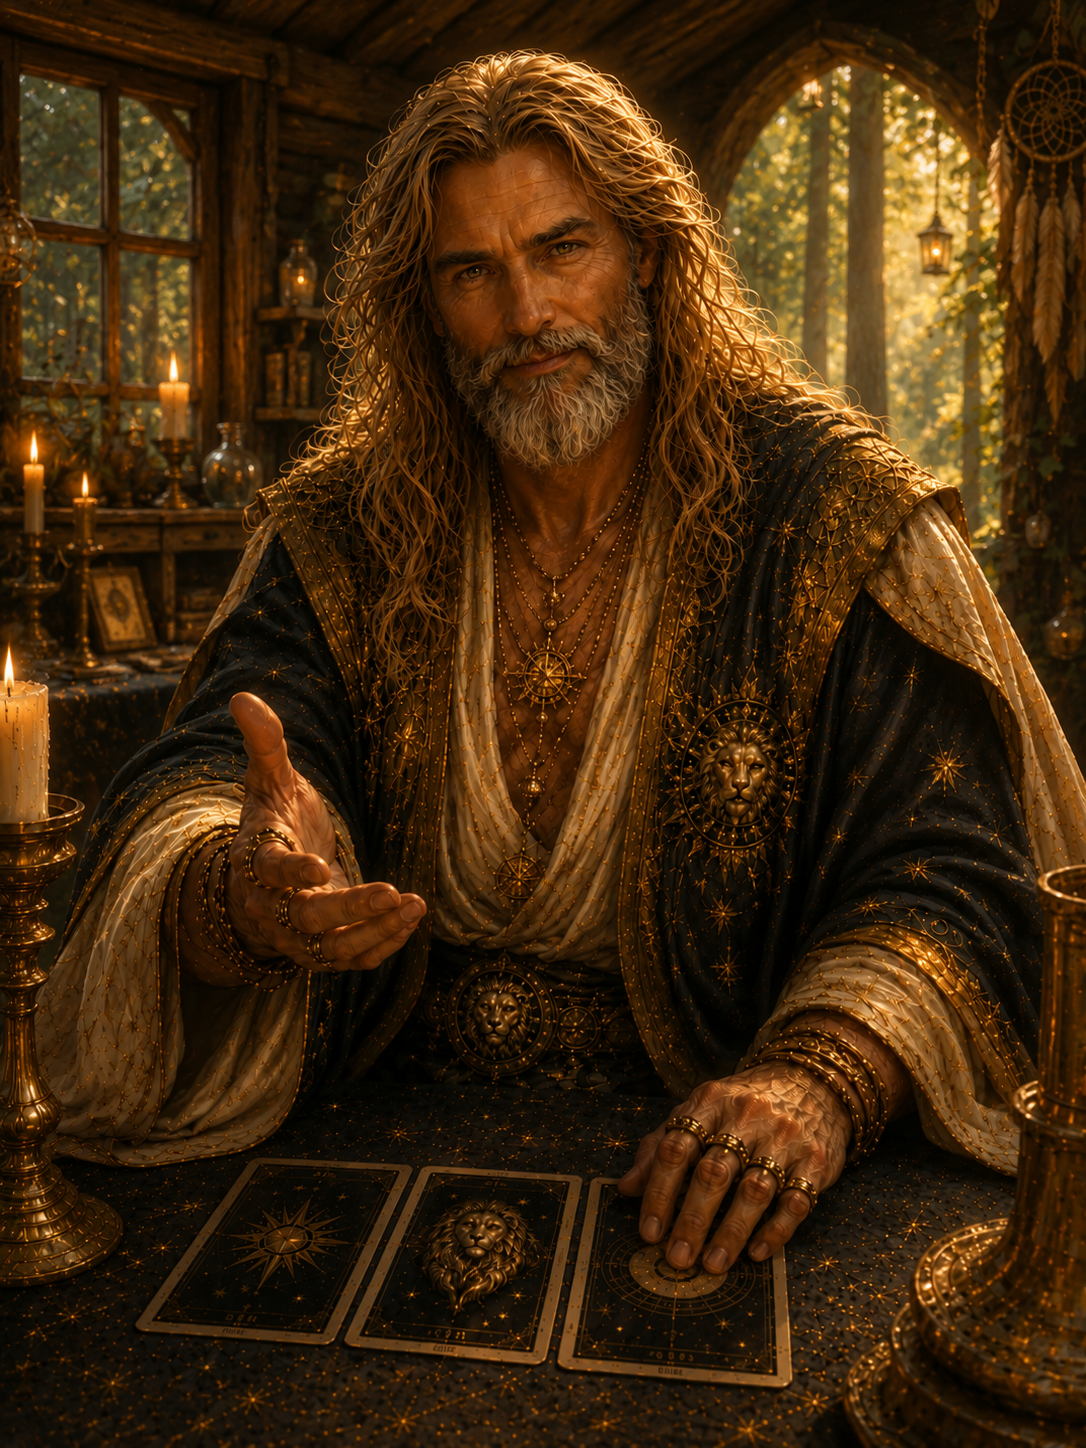
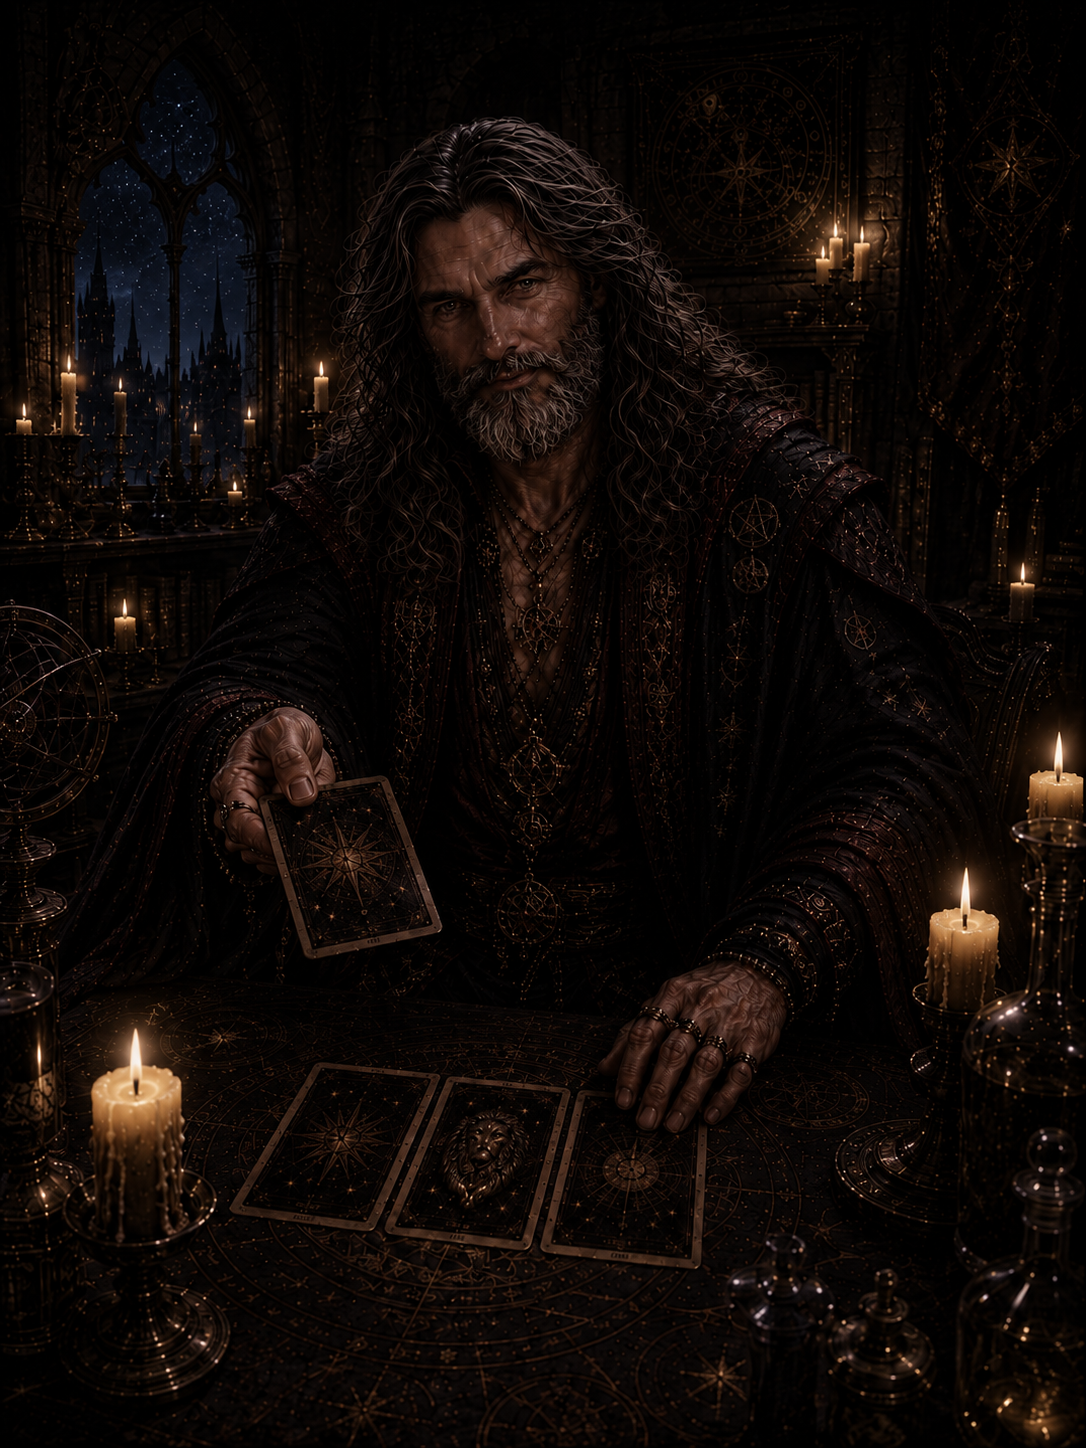
new astral deck added and leo phase 1 image update

diff --git a/data/decks.js b/data/decks.js
@@ -13,20 +13,41 @@ const deckCollections = [
     status: "Core Collection",
     actionLabel: "View Deck",
     eyebrow: "Major Arcana",
-    viewTitle: "The Astral Deck",
+    viewTitle: "Lumen Arcana",
     viewDescription:
-      "Browse the Major Arcana used in Astral Veil readings, now expanded with reflective meanings, shadows, and questions.",
+      "Rooted in light, growth, and guidance, this deck explores the Major Arcana through renewal, intuition, and the quiet wisdom of becoming.",
     coverImage: "assets/images/cards/original/card-back.webp",
     imagePath: "assets/images/cards/original/",
     cards: () => tarotDeck
   },
   {
+    id: "dreambound",
+    title: "Dreambound Arcana",
+    name: "Dreambound Arcana",
+    subtitle: "A storybook deck of wonder, courage, and the dreams that guide us home.",
+    category: "DREAMBOUND",
+    librarySection: "free",
+    theme: "dreambound",
+    accessType: "free",
+    status: "Core Collection",
+    actionLabel: "View Deck",
+    eyebrow: "Dreambound Arcana",
+    viewTitle: "Dreambound Arcana",
+    viewDescription: "A storybook deck of wonder, courage, and the dreams that guide us home, following a young traveler through love, loss, hope, and becoming.",
+    coverImage: "assets/images/cards/dreamy/dreams_card_back.png",
+    previewImage: "assets/images/cards/dreamy/dreams_card_back.png",
+    backgroundImage: "/assets/images/background _images/dreams_deck_bg.png",
+    deckBack: "assets/images/cards/dreamy/dreams_card_back.png",
+    imagePath: "assets/images/cards/dreamy/",
+    cards: () => dreamboundDeck.cards
+  },
+  {
     id: "bloodMoon",
-    title: "Blood Moon Deck",
-    name: "Blood Moon Deck",
+    title: "Blood Moon Arcana",
+    name: "Blood Moon Arcana",
     subtitle: "A crimson deck of shadow and truth.",
     category: "Blood Moon",
-    librarySection: "free",
+    librarySection: "unlockable",
     theme: "bloodMoon",
     accessType: "event",
     requiredEvent: "bloodMoon",
@@ -37,8 +58,8 @@ const deckCollections = [
     actionLabel: "View Deck",
     lockedMessage: "This deck sleeps beneath the Blood Moon.",
     eyebrow: "Blood Moon Arcana",
-    viewTitle: "Blood Moon Deck",
-    viewDescription: "A crimson Major Arcana collection available to signed-in Veilwalkers or when Blood Moon is awake.",
+    viewTitle: "Blood Moon Arcana",
+    viewDescription: "A crimson deck of shadow and truth, revealing the hidden patterns, hard lessons, and raw transformations beneath each card.",
     coverImage: "assets/images/cards/blood-moon/bloodmoon-card-back.webp",
     imagePath: "assets/images/cards/blood-moon/",
     unlockCondition: "Blood Moon event active",
@@ -48,8 +69,8 @@ const deckCollections = [
   },
   {
     id: "moonveil",
-    title: "Moonveil Deck",
-    name: "Moonveil Deck",
+    title: "Moonveil Arcana",
+    name: "Moonveil Arcana",
     subtitle: "A moonlit deck of dreams, intuition, and hidden paths.",
     category: "MOONVEIL",
     librarySection: "free",
@@ -63,45 +84,13 @@ const deckCollections = [
     lockedMessage: "Create a free account to unlock this deck.",
     authMode: "signup",
     eyebrow: "Moonveil Arcana",
-    viewTitle: "Moonveil Deck",
-    viewDescription: "A moonlit Major Arcana collection for intuition work and reflective readings.",
+    viewTitle: "Moonveil Arcana",
+    viewDescription: "A moonlit deck of dreams, intuition, and hidden paths, inviting each card to unfold through stillness, mystery, and reflection.",
     backgroundImage: "assets/images/background _images/moonveil_card_bg.png",
     previewImage: "assets/images/cards/moonveil/moonveil_card_back.png",
     coverImage: "assets/images/cards/moonveil/moonveil_card_back.png",
     imagePath: "assets/images/cards/moonveil/",
     cards: () => moonveilDeck.cards
-  },
-  {
-    id: "memoryChamber",
-    title: "Memory Chamber Deck",
-    name: "Memory Chamber Deck",
-    subtitle: "Recovered through memory and progression.",
-    category: "Lore",
-    librarySection: "unlockable",
-    theme: "lore",
-    accessType: "comingSoon",
-    status: "Unlockable",
-    lockedStatus: "Unlockable",
-    lockedActionLabel: "Locked",
-    lockedMessage: "This deck will unlock through future Astral Veil progression.",
-    coverImage: "assets/images/cards/original/card-back.webp",
-    cards: () => []
-  },
-  {
-    id: "veilbound",
-    title: "Veilbound Deck",
-    name: "Veilbound Deck",
-    subtitle: "A hidden collection within the Veil.",
-    category: "Lore",
-    librarySection: "unlockable",
-    theme: "veilbound",
-    accessType: "comingSoon",
-    status: "Unlockable",
-    lockedStatus: "Unlockable",
-    lockedActionLabel: "Locked",
-    lockedMessage: "This deck is a future lore unlock.",
-    coverImage: "assets/images/cards/original/card-back.webp",
-    cards: () => []
   },
   {
     id: "eventDeck",

diff --git a/css/deck.css b/css/deck.css
@@ -557,6 +557,43 @@ body.blood-moon-mode .deck-ritual-feature {
     inset 0 0 14px rgba(255, 213, 217, 0.06);
 }
 
+.deck-collection-card--dreambound {
+  --deck-card-accent: #d8b46f;
+  --deck-card-accent-strong: #7f5d3a;
+  --deck-card-accent-soft: rgba(216, 180, 111, 0.32);
+  --deck-card-glow: rgba(216, 180, 111, 0.24);
+  --deck-card-panel: rgba(44, 30, 16, 0.74);
+  --deck-card-text: #f5e9d5;
+  --deck-card-muted: rgba(225, 202, 170, 0.86);
+  --deck-collection-cover: url("/assets/images/background _images/dreams_deck_bg.png");
+  border-color: color-mix(in srgb, var(--deck-card-accent-strong) 72%, rgba(255, 255, 255, 0.18));
+  color: var(--deck-card-text);
+  background:
+    radial-gradient(circle at 18% 12%, rgba(255, 232, 191, 0.16), transparent 40%),
+    linear-gradient(135deg, rgba(255, 255, 255, 0.06), rgba(0, 0, 0, 0.26) 68%),
+    var(--deck-collection-cover) center / cover no-repeat,
+    var(--deck-card-panel);
+}
+
+.deck-collection-card--dreambound .deck-collection-card__preview img {
+  border: 1px solid color-mix(in srgb, var(--deck-card-accent) 44%, rgba(255, 255, 255, 0.18));
+  box-shadow: 0 18px 38px rgba(0, 0, 0, 0.38);
+}
+
+.deck-collection-card--dreambound .deck-collection-card__badge {
+  color: color-mix(in srgb, #f8e2bf 72%, var(--deck-card-text));
+  background: color-mix(in srgb, #d8b46f 68%, rgba(0, 0, 0, 0.2));
+  box-shadow: 0 0 14px color-mix(in srgb, var(--deck-card-glow) 58%, transparent);
+}
+
+.deck-collection-card--dreambound .deck-collection-card__action {
+  border-color: color-mix(in srgb, #d8b46f 68%, rgba(255, 255, 255, 0.16));
+  color: var(--deck-card-text);
+  background:
+    linear-gradient(135deg, rgba(255, 255, 255, 0.09), transparent 48%),
+    color-mix(in srgb, #d8b46f 78%, rgba(0, 0, 0, 0.28));
+}
+
 .deck-collection-card.is-locked {
   border-color: color-mix(in srgb, var(--deck-card-accent-strong) 42%, rgba(0, 0, 0, 0.36));
   opacity: 0.76;
@@ -956,6 +993,13 @@ body.blood-moon-mode .deck-ritual-feature {
   --deck-viewer-accent: #8eb3ff;
   --deck-viewer-glow: rgba(141, 176, 255, 0.34);
   --deck-viewer-panel: rgba(12, 22, 49, 0.8);
+}
+
+.deck-viewer--dreambound {
+  --deck-viewer-accent: var(--navbar-border);
+  --deck-viewer-glow: var(--navbar-glow);
+  --deck-viewer-panel: var(--navbar-bg);
+  background: transparent;
 }
 
 .deck-viewer__stage {
@@ -1876,6 +1920,41 @@ body.is-lightbox-open {
   --deck-card-accent-soft: rgba(138, 87, 207, 0.32);
   --deck-card-glow: rgba(157, 100, 255, 0.28);
   --deck-card-panel: rgba(31, 20, 48, 0.75);
+}
+
+.deck-collection-card--dreambound {
+  --deck-card-accent: #d8b46f;
+  --deck-card-accent-strong: #7f5d3a;
+  --deck-card-accent-soft: rgba(216, 180, 111, 0.32);
+  --deck-card-glow: rgba(216, 180, 111, 0.24);
+  --deck-card-panel: rgba(44, 30, 16, 0.74);
+  --deck-card-text: #f5e9d5;
+  --deck-card-muted: rgba(225, 202, 170, 0.86);
+  --deck-collection-cover: url("/assets/images/background _images/dreams_deck_bg.png");
+  background:
+    radial-gradient(circle at 16% 12%, rgba(255, 232, 191, 0.22), transparent 42%),
+    linear-gradient(160deg, rgba(216, 180, 111, 0.08), rgba(0, 0, 0, 0.18) 56%, rgba(0, 0, 0, 0.28)),
+    linear-gradient(180deg, rgba(255, 255, 255, 0.04), rgba(0, 0, 0, 0.2) 56%, rgba(0, 0, 0, 0.34)),
+    var(--deck-collection-cover) center / cover no-repeat,
+    var(--deck-card-panel);
+}
+
+.deck-collection-card--dreambound .deck-collection-card__badge {
+  border-color: color-mix(in srgb, #d8b46f 46%, rgba(255, 255, 255, 0.12));
+  color: color-mix(in srgb, #f8e2bf 72%, var(--deck-card-text));
+  background: color-mix(in srgb, #d8b46f 68%, rgba(0, 0, 0, 0.2));
+  box-shadow: 0 0 14px color-mix(in srgb, var(--deck-card-glow) 58%, transparent);
+}
+
+.deck-collection-card--dreambound .deck-collection-card__action {
+  border-color: color-mix(in srgb, #d8b46f 68%, rgba(255, 255, 255, 0.14));
+  background:
+    linear-gradient(135deg, rgba(255, 255, 255, 0.1), transparent 48%),
+    color-mix(in srgb, #d8b46f 70%, rgba(0, 0, 0, 0.28));
+}
+
+.deck-collection-card--dreambound .deck-collection-card__action:hover {
+  box-shadow: 0 0 18px color-mix(in srgb, var(--deck-card-glow) 78%, transparent);
 }
 
 .deck-collection-card--moonveil {

diff --git a/data/cards.js b/data/cards.js
@@ -955,7 +955,7 @@ function getBaseCardId(card) {
 
 function getCardUprightMeaning(card) {
   const bloodMoon = card?.bloodMoon || {};
-  const isBloodMoonCard = Boolean(card?.isBloodMoonCard || card?.originalCardId);
+  const isBloodMoonCard = Boolean(card?.isBloodMoonCard);
 
   if (isBloodMoonCard) {
     const upright = bloodMoon.upright || {};
@@ -1047,7 +1047,7 @@ function withOrientationMeanings(card) {
 function getCardReversedMeaning(card) {
   const baseCard = majorArcanaCards.find((item) => item.id === getBaseCardId(card));
   const sourceCard = card?.reversed ? card : baseCard || card;
-  const isBloodMoonCard = Boolean(card?.isBloodMoonCard || card?.originalCardId);
+  const isBloodMoonCard = Boolean(card?.isBloodMoonCard);
 
   if (isBloodMoonCard) {
     return sourceCard?.bloodMoon?.reversed || createBloodMoonReversedMeaning(sourceCard || card);
@@ -1128,6 +1128,31 @@ const moonveilCardImages = {
   "the-world": "moonveil_world.png"
 };
 
+const dreamboundCardImages = {
+  "the-fool": "dreams_fool.png",
+  "the-magician": "dreams_magician.png",
+  "the-high-priestess": "dreams_high_priestess.png",
+  "the-empress": "dreams_empress.png",
+  "the-emperor": "dreams_emperor.png",
+  "the-hierophant": "dreams_hierophant.png",
+  "the-lovers": "dreams_lovers.png",
+  "the-chariot": "dreams_chariot.png",
+  strength: "dreams_strength.png",
+  "the-hermit": "dreams_hermit.png",
+  "wheel-of-fortune": "dreams_wheel_of_fortune.png",
+  justice: "dreams_justice.png",
+  "the-hanged-man": "dreams_hanged_man.png",
+  death: "dreams_death.png",
+  temperance: "dreams_temperance.png",
+  "the-devil": "dreams_devil.png",
+  "the-tower": "dreams_tower.png",
+  "the-star": "dreams_star.png",
+  "the-moon": "dreams_moon.png",
+  "the-sun": "dreams_sun.png",
+  judgement: "dreams_judgement.png",
+  "the-world": "dreams_world.png"
+};
+
 const bloodMoonDeck = {
   id: "bloodMoon",
   name: "Blood Moon Deck",
@@ -1153,9 +1178,21 @@ const moonveilDeck = {
   }))
 };
 
+const dreamboundDeck = {
+  id: "dreambound",
+  name: "Dreambound Arcana",
+  cards: tarotDeck.map((card) => ({
+    ...card,
+    id: `dreambound-${card.id}`,
+    originalCardId: card.id,
+    image: `assets/images/cards/dreamy/${dreamboundCardImages[card.id] || "dreams_card_back.png"}`
+  }))
+};
+
 if (typeof window !== "undefined") {
   window.majorArcanaCards = majorArcanaCards;
   window.tarotDeck = tarotDeck;
   window.bloodMoonDeck = bloodMoonDeck;
   window.moonveilDeck = moonveilDeck;
+  window.dreamboundDeck = dreamboundDeck;
 }

diff --git a/js/deck.js b/js/deck.js
@@ -498,9 +498,13 @@ function renderDeckCollectionCard(collection) {
     ? `${collection.lockedMessage}`
     : collection?.subtitle || "";
   const previewImage = collection?.previewImage || collection?.coverImage;
+  const tileBackgroundImage = collection?.backgroundImage || collection?.coverImage || "";
+  const tileBackgroundStyle = tileBackgroundImage
+    ? `style='--deck-collection-cover: url("${tileBackgroundImage}")'`
+    : "";
 
   return `
-      <article class="deck-collection-card deck-collection-card--${escapeHtml(theme)}${isLocked ? " is-locked" : ""}" data-deck-card data-deck-category="${escapeHtml(category)}" data-view-deck="${escapeHtml(collection.id)}" aria-disabled="${isLocked}">
+      <article class="deck-collection-card deck-collection-card--${escapeHtml(theme)}${isLocked ? " is-locked" : ""}" ${tileBackgroundStyle} data-deck-card data-deck-category="${escapeHtml(category)}" data-view-deck="${escapeHtml(collection.id)}" aria-disabled="${isLocked}">
       <span class="deck-collection-card__badge">${escapeHtml(status)}</span>
       <div class="deck-collection-card__preview" aria-hidden="true">
         <img src="${escapeHtml(previewImage)}" alt="" width="${DECK_CARD_IMAGE_WIDTH}" height="${DECK_CARD_IMAGE_HEIGHT}" loading="lazy" decoding="async" />
@@ -526,6 +530,13 @@ function getFilteredDeckCollections() {
 
   if (activeDeckFilter === "All") {
     return deckCollections;
+  }
+
+  if (activeDeckFilter === "Lore") {
+    return deckCollections.filter((collection) => {
+      const category = getCollectionCategory(collection);
+      return category === "Lore" || category === "Blood Moon";
+    });
   }
 
   return deckCollections.filter((collection) => getCollectionCategory(collection) === activeDeckFilter);
@@ -679,10 +690,14 @@ function renderDeckGallery(collectionId) {
 
   preloadAdjacentCards(collectionCards, activeCardIndex);
 
+  const deckHeroTitle = collection?.viewTitle || collection?.title || collection?.name || collection?.eyebrow || "The Astral Deck";
+  const deckHeroDescription =
+    collection?.viewDescription || collection?.detailDescription || collection?.description || collection?.subtitle || "";
+
   updateDeckHero({
     eyebrow: collection.eyebrow,
-    title: collection.viewTitle,
-    description: collection.viewDescription
+    title: deckHeroTitle,
+    description: deckHeroDescription
   });
   setDeckRitualFeatureVisible(false);
 

diff --git a/data/readers.js b/data/readers.js
@@ -127,8 +127,8 @@ const tarotReaders = [
     lore: "Cassian reads through warmth, pride, creativity, and the courage to stand in visible truth. His cards often point toward confidence that does not need to perform.",
     themes: ["radiance", "confidence", "creativity", "heart"],
     accentClass: "fire",
-    image: `${readerPhase1ImageBasePath}leo-phase1.png`,
-    phase1Image: `${readerPhase1ImageBasePath}leo-phase1.png`,
+    image: `${readerPhase1ImageBasePath}leo-phase1.webp`,
+    phase1Image: `${readerPhase1ImageBasePath}leo-phase1.webp`,
     phase2Image: `${readerPhase2ImageBasePath}leo-phase2.webp`,
     bloodMoonImage: `${readerBloodMoonImageBasePath}leo-bloodmoon.webp`,
     bloodMoonTitle: "The Devouring Crown of the Sun",
